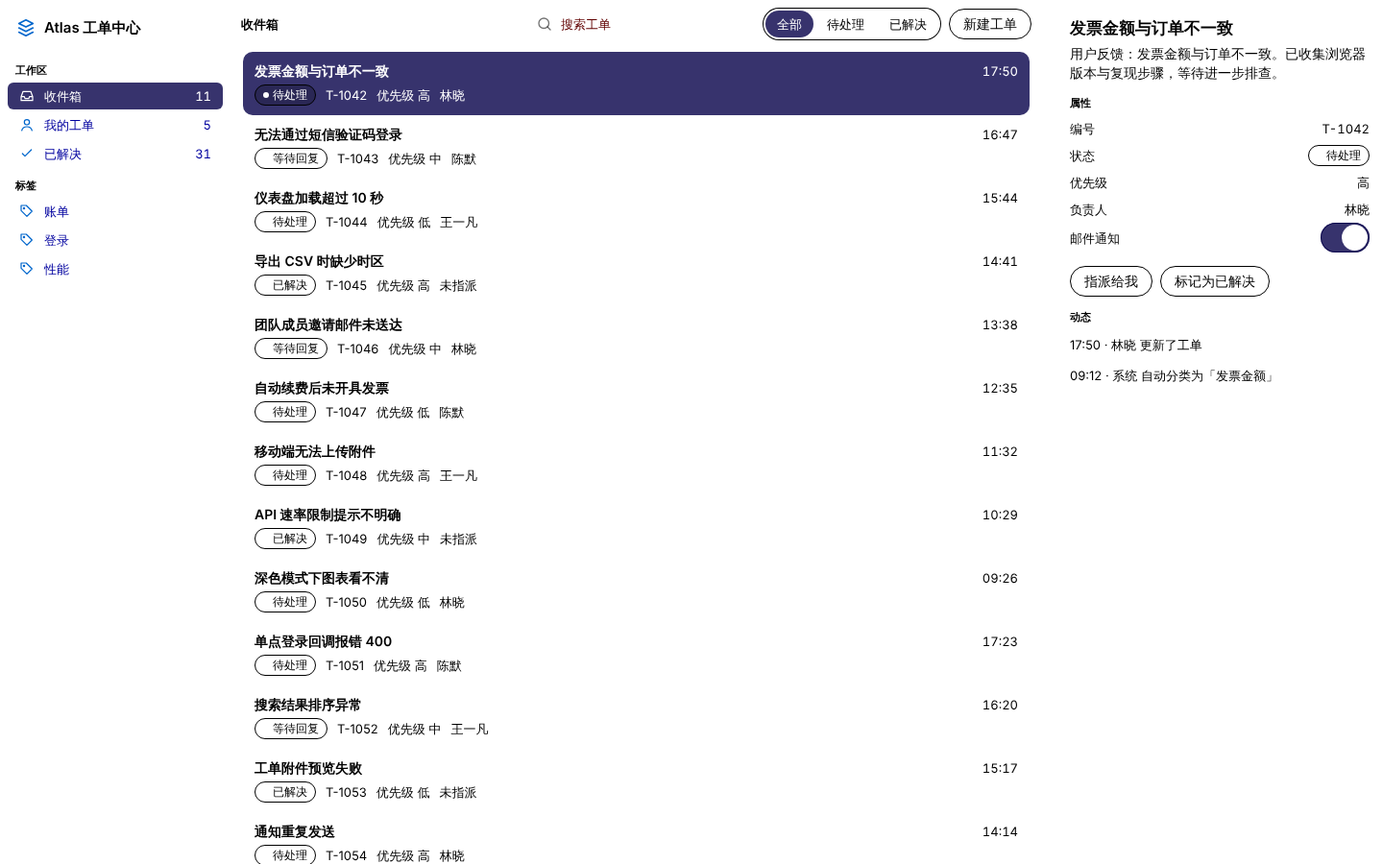
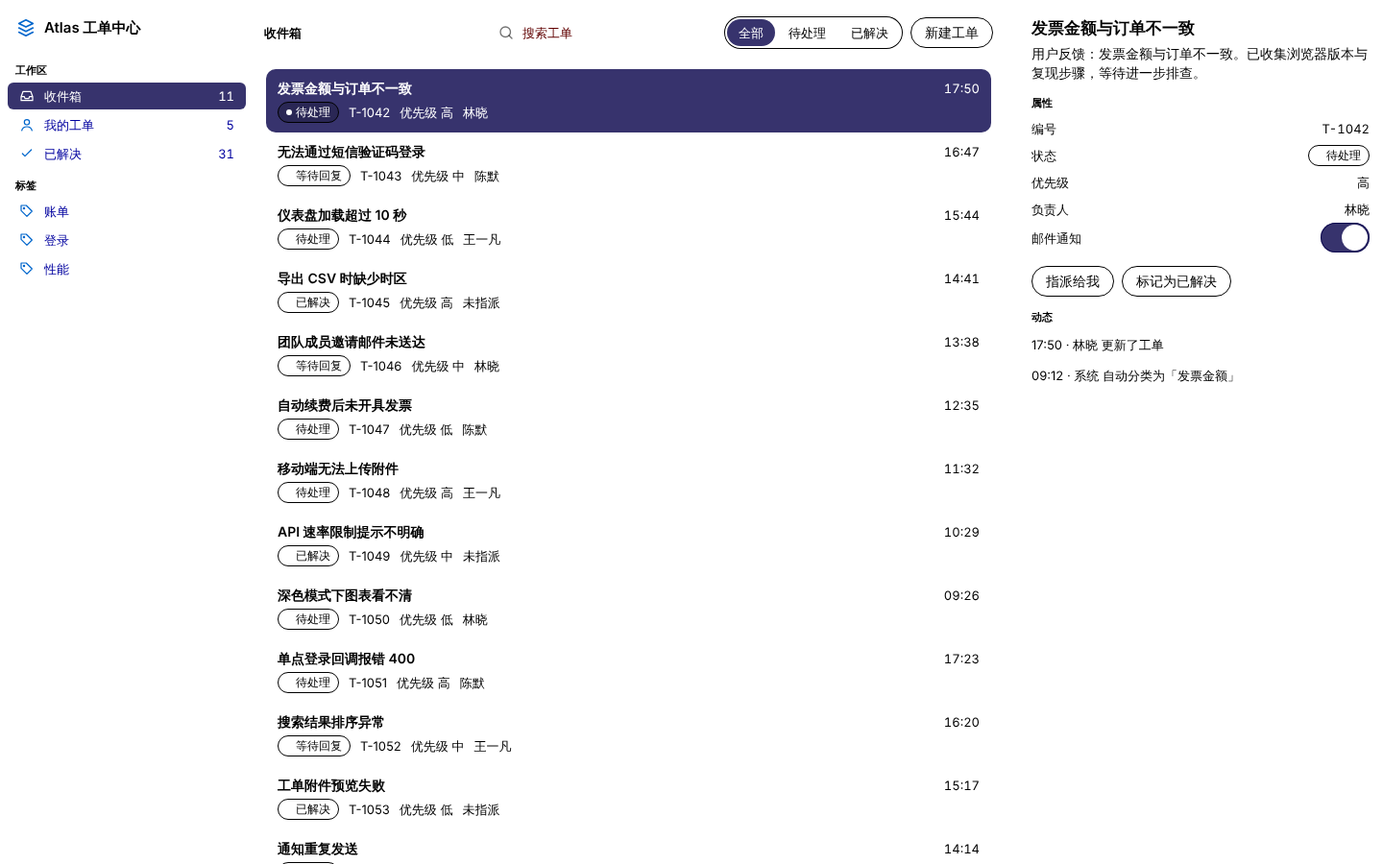
fix(web): split panes outside .as-window, AA secondary and tinted text
Fix D1–D3 from the desktop web page evaluation, each covered by tests
in tests/browser/regressions.spec.js that fail on the previous
stylesheet (the dark-appearance contrast case is a control that
already passed).

- D1: split-view tokens (pane widths, content minimum, row minimum,
  window toolbar height) are defined on :root with the 1024/1280
  tiers, so .as-split works in a plain web-app frame and the tokens can
  still be overridden on any ancestor. In .as-window the split always
  takes the 1fr row, so a window without a menu bar fills its height.
  Below 1024px every split hides its dividers, which were zero-sized
  but still focusable outside .as-window.
- D2: --as-label-secondary uses 74 % in the light appearance (5.02:1 on
  white, 4.72:1 on secondarySystemBackground); dark is unchanged.
- D3: --as-accent-on-tint gives .as-button-tinted a darker light-mode
  foreground (5.57:1 on white, 5.04:1 on secondarySystemBackground).

The evaluation page drops its 12 lines of workarounds; with the fixed
library alone axe reports no contrast violations in light, dark or
with the dialog open. Its evidence and report are updated.

Claude-Session: https://claude.ai/code/session_0163K8SVLbZWBfLNuicnwL89

diff --git a/skills/Apple-Style/web/apple-style.css b/skills/Apple-Style/web/apple-style.css
@@ -62,10 +62,18 @@
   --as-action-fg: #fff;
   --as-action-destructive: light-dark(#b42318, #b92b20);
   --as-accent: light-dark(#0066cc, #64b5ff);   /* app accent color; override per brand */
+  /* Accent text on an accent tint (.as-button-tinted): the tint lowers the
+     contrast, so light mode uses a darker shade — 5.57:1 on white, 5.04:1 on
+     secondarySystemBackground. Change it together with --as-accent. */
+  --as-accent-on-tint: light-dark(#0058b0, #64b5ff);
 
   /* Semantic (dynamic) colors — UIKit semantic values, adapt light/dark */
   --as-label:            light-dark(rgb(0 0 0),              rgb(255 255 255));
-  --as-label-secondary:  light-dark(rgb(60 60 67 / .60),     rgb(235 235 245 / .60));
+  /* Project default: Apple's light secondaryLabel (60 %) measures 3.44:1 on
+     white and 3.30:1 on secondarySystemBackground, below WCAG 1.4.3 for the
+     meaningful small text it carries. 74 % gives 5.02:1 / 4.72:1; the dark
+     value already passes (≥ 5.27:1 up to tertiarySystemBackground). */
+  --as-label-secondary:  light-dark(rgb(60 60 67 / .74),     rgb(235 235 245 / .60));
   --as-label-tertiary:   light-dark(rgb(60 60 67 / .30),     rgb(235 235 245 / .30));
   --as-label-quaternary: light-dark(rgb(60 60 67 / .18),     rgb(235 235 245 / .16));
   --as-placeholder:      var(--as-label-tertiary);
@@ -141,10 +149,9 @@
 /* Increased contrast variants of system colors (HIG Color spec) */
 @media (prefers-contrast: more) {
   :root {
-    /* Label and separator alphas tighten too, not just the hues. At their
-       default alphas secondaryLabel measures ~3.3:1 on secondarySystemBackground
-       — deliberate for de-emphasised text, but Increase Contrast is exactly
-       the switch that is supposed to take it past 4.5:1. */
+    /* Label and separator alphas tighten too, not just the hues: the default
+       secondaryLabel already passes 4.5:1; Increase Contrast takes it further,
+       and lifts tertiary and quaternary labels and separators as well. */
     --as-label-secondary:  light-dark(rgb(60 60 67 / .82), rgb(235 235 245 / .82));
     --as-label-tertiary:   light-dark(rgb(60 60 67 / .60), rgb(235 235 245 / .58));
     --as-label-quaternary: light-dark(rgb(60 60 67 / .40), rgb(235 235 245 / .38));
@@ -440,7 +447,7 @@
 .as-button:active { transform: scale(.96); opacity: .7; }           /* always a press state */
 .as-button:disabled { opacity: .35; pointer-events: none; }
 .as-button-filled { background: var(--as-action-bg); color: var(--as-action-fg); }
-.as-button-tinted { background: color-mix(in oklab, var(--as-accent) 15%, transparent); }
+.as-button-tinted { background: color-mix(in oklab, var(--as-accent) 15%, transparent); color: var(--as-accent-on-tint); }
 .as-button-gray   { background: var(--as-fill); color: var(--as-label); }
 .as-button-bordered { box-shadow: inset 0 0 0 1px var(--as-separator-opaque); color: var(--as-label); }
 .as-button-glass  { /* compose: class="as-glass as-glass-interactive as-button as-button-glass" */
@@ -744,8 +751,12 @@
    window frame. (The floating glass `.as-sidebar` above is the iPad
    expression; used inside `.as-split` it is restyled as a pane.)
    -------------------------------------------------------------------------- */
-.as-window {
-  /* Pane widths are STARTING POINTS, not Apple numbers — the HIG only says
+:root {
+  /* Split-view metrics live on :root, not .as-window: .as-split is used in
+     plain web-app frames too, and a token defined only on the window left
+     every pane at its content width and every row at zero height there.
+     Override them on .as-window, .as-split or any ancestor.
+     Pane widths are STARTING POINTS, not Apple numbers — the HIG only says
      "Set reasonable defaults for minimum and maximum pane sizes"
      (hig/split-views.md) without saying what reasonable is. These are the
      widths at which a two-level sidebar row and a key/value inspector row stop
@@ -760,18 +771,18 @@
   --as-window-chrome: 52px;
 }
 @media (min-width: 1280px) {
-  .as-window { --as-sidebar-w: 264px; --as-inspector-w: 380px; --as-content-min: 480px; }
+  :root { --as-sidebar-w: 264px; --as-inspector-w: 380px; --as-content-min: 480px; }
 }
 /* A pointer is more precise than a fingertip: WCAG 2.2 Target Size (Minimum)
    asks 24×24 CSS px, where touch wants 44×44. Gate on the INPUT, not the
    width — a touchscreen laptop at 1440px still needs finger-sized rows, and a
    Mac inspector at 44pt a row holds a third of what it should. */
-@media (any-pointer: coarse) { .as-window { --as-row-min: var(--as-hit-min); } }
+@media (any-pointer: coarse) { :root { --as-row-min: var(--as-hit-min); } }
 
 /* Narrow-container fallback preserves platform identity and all pane content.
    Panes stack; only resize handles disappear when there is no horizontal split. */
 @media (max-width: 1023.98px) {
-  .as-window > .as-split > .as-split-divider { display: none; }
+  .as-split > .as-split-divider { display: none; }
 }
 /* Used inside a split view, `.as-sidebar` is a pane, not the floating iPad
    slab it is on its own — at every width, so the compact fallback doesn't
@@ -794,6 +805,9 @@
     overflow: hidden;                    /* the panes scroll, the window doesn't */
     background: var(--as-bg-grouped);
   }
+  /* The split always takes the 1fr row, so a window without a menu bar (or
+     without a toolbar) still fills its height instead of leaving it empty. */
+  .as-window > .as-split { grid-row: 3; }
 
   /* Menu bar. On a Mac this lives outside the window and iPadOS 26 puts it at
      the top of the screen; on the web it has to be drawn in-window. Quiet

diff --git a/tests/browser/regressions.spec.js b/tests/browser/regressions.spec.js
@@ -345,3 +345,75 @@ test('a closed sheet backdrop is not rendered (§2.10)', async ({ page }) => {
   await page.locator('#dim').evaluate(el => el.classList.remove('is-open'));
   await expect.poll(() => page.locator('#dim').evaluate(el => getComputedStyle(el).visibility)).toBe('hidden');
 });
+
+// D1–D3 of evals/runs/2026-10-17-pc-web/report.md.
+test.describe('split view outside a Mac-style window (D1)', () => {
+  const panes = `<div class="as-split" id="split" style="block-size:600px">
+      <nav class="as-sidebar" aria-label="Sections"><a class="as-row is-selected" href="#a">Inbox</a><a class="as-row" href="#b">Archive</a></nav>
+      <div class="as-split-divider" aria-label="Sidebar width"></div>
+      <main class="as-content"><header class="as-toolbar as-toolbar-window"><h1 class="as-toolbar-title">Inbox</h1></header><p>Content</p></main>
+      <div class="as-split-divider" aria-label="Inspector width"></div>
+      <aside class="as-inspector" aria-label="Details"><div class="as-field"><span>Status</span><span>Open</span></div></aside></div>`;
+  const measure = page => page.evaluate(() => {
+    const box = s => document.querySelector(s).getBoundingClientRect();
+    return { sidebar: Math.round(box('.as-sidebar').width), inspector: Math.round(box('.as-inspector').width),
+      row: Math.round(box('.as-sidebar .as-row').height), field: Math.round(box('.as-inspector .as-field').height),
+      toolbar: getComputedStyle(document.querySelector('.as-toolbar-window')).minBlockSize };
+  });
+  for (const [width, sidebar, inspector] of [[1100, 220, 300], [1440, 264, 380]]) {
+    test(`panes keep their default widths and row heights at ${width}px`, async ({ page }) => {
+      await page.setViewportSize({ width, height: 800 });
+      await load(page, `<div class="app">${panes}</div>`);
+      await page.evaluate(() => LiquidGlass.init());
+      const m = await measure(page);
+      expect(m).toMatchObject({ sidebar, inspector, toolbar: '52px' });
+      expect(m.row).toBeGreaterThanOrEqual(28); expect(m.field).toBeGreaterThanOrEqual(28);
+    });
+  }
+  test('tokens can still be overridden on .as-window, and a window without a menu bar fills its height', async ({ page }) => {
+    await page.setViewportSize({ width: 1440, height: 800 });
+    await load(page, `<div class="as-window" style="--as-sidebar-w: 300px">${panes.replace(' style="block-size:600px"', '')}</div>`);
+    await page.evaluate(() => LiquidGlass.init());
+    expect((await measure(page)).sidebar).toBe(300);
+    const fill = await page.evaluate(() => [document.querySelector('.as-window').getBoundingClientRect().bottom, split.getBoundingClientRect().bottom].map(Math.round));
+    expect(fill[1]).toBe(fill[0]);
+  });
+  test('below 1024px the stacked split hides its dividers', async ({ page }) => {
+    await page.setViewportSize({ width: 800, height: 800 });
+    await load(page, `<div class="app">${panes}</div>`);
+    await page.evaluate(() => LiquidGlass.init());
+    // Not just zero-sized: the runtime gives dividers tabindex=0, so they must be display:none to leave the tab order.
+    await expect(page.locator('.as-split-divider').first()).toHaveCSS('display', 'none');
+  });
+});
+
+// Composites the computed colours (rgba, color-mix results) on a canvas, so the
+// ratio is what is drawn: container background, then the element's own
+// background, then the text colour.
+async function renderedContrast(page, selector) {
+  return page.evaluate(sel => {
+    const el = document.querySelector(sel), c = document.createElement('canvas'); c.width = c.height = 1;
+    const x = c.getContext('2d', { willReadFrequently: true });
+    const pixel = colors => { x.clearRect(0, 0, 1, 1); for (const fill of colors) { x.fillStyle = fill; x.fillRect(0, 0, 1, 1); } return [...x.getImageData(0, 0, 1, 1).data].slice(0, 3); };
+    const host = getComputedStyle(el.parentElement).backgroundColor, own = getComputedStyle(el).backgroundColor;
+    const bg = pixel([host, own]), fg = pixel([host, own, getComputedStyle(el).color]);
+    const lum = rgb => rgb.map(v => v / 255).map(v => v <= .04045 ? v / 12.92 : ((v + .055) / 1.055) ** 2.4).reduce((s, v, i) => s + v * [.2126, .7152, .0722][i], 0);
+    const [a, b] = [lum(fg), lum(bg)];
+    return (Math.max(a, b) + .05) / (Math.min(a, b) + .05);
+  }, selector);
+}
+for (const colorScheme of ['light', 'dark']) {
+  test(`secondary labels and tinted buttons meet 4.5:1 by default in ${colorScheme} (D2, D3)`, async ({ page }) => {
+    // Reduced motion: .as-button transitions its background, and a mid-transition
+    // frame from the UA button colour is not the default being measured.
+    await page.emulateMedia({ colorScheme, contrast: 'no-preference', reducedMotion: 'reduce' });
+    const backgrounds = ['--as-bg', '--as-bg-secondary', '--as-bg-grouped', '--as-bg-grouped-2', '--as-bg-tertiary'];
+    await load(page, backgrounds.map((bg, i) => `<div style="background:var(${bg});padding:8px">
+      <span class="as-secondary" id="s${i}">Secondary</span> <button class="as-button as-button-tinted" id="t${i}">Tinted</button></div>`).join(''));
+    await page.waitForFunction(() => document.getAnimations().length === 0);
+    for (let i = 0; i < backgrounds.length; i++) {
+      expect(await renderedContrast(page, `#s${i}`), `secondary label on ${backgrounds[i]}`).toBeGreaterThanOrEqual(4.5);
+      expect(await renderedContrast(page, `#t${i}`), `tinted button on ${backgrounds[i]}`).toBeGreaterThanOrEqual(4.5);
+    }
+  });
+}

diff --git a/evals/runs/2026-10-17-pc-web/index.html b/evals/runs/2026-10-17-pc-web/index.html
@@ -10,7 +10,9 @@
      application, input = pointer + keyboard, container = 1024–1920 px.
      Library: ../../../skills/Apple-Style/web/{apple-style.css, liquid-glass.mjs}.
      Page CSS below is only what the library does not provide; every block is
-     tagged [gap] or [page] so the evaluation can count it. -->
+     tagged [gap] or [page] so the evaluation can count it. The first run also
+     needed 12 lines of [defect] workarounds (D1, D2 in report.md); they were
+     removed once the library fixed them. -->
 <link rel="stylesheet" href="../../../skills/Apple-Style/web/apple-style.css">
 <style>
   /* [gap] CJK: the font stacks have no CJK face and the type scale uses Latin
@@ -19,6 +21,7 @@
     --as-font-text: -apple-system, BlinkMacSystemFont, "SF Pro Text", "PingFang SC", "Hiragino Sans GB", "Microsoft YaHei", "Noto Sans CJK SC", system-ui, sans-serif;
     --as-font-display: -apple-system, BlinkMacSystemFont, "SF Pro Display", "PingFang SC", "Hiragino Sans GB", "Microsoft YaHei", "Noto Sans CJK SC", system-ui, sans-serif;
   }
+  * { letter-spacing: 0 !important; }
 
 
   /* [page] application frame: .as-window assumes an in-window menu bar, so a
@@ -26,13 +29,6 @@
   html, body { margin: 0; block-size: 100%; }
   .app { block-size: 100dvh; display: grid; grid-template-rows: minmax(0, 1fr); background: var(--as-bg-grouped); }
   .app > .as-split { min-block-size: 0; }
-  /* [defect] .as-split's panes read --as-sidebar-w, --as-inspector-w,
-     --as-content-min and --as-row-min, but those are defined only on
-     .as-window. Outside a Mac-style window every pane collapses to its
-     content width and every row to zero minimum height. Same values here. */
-  .app { --as-sidebar-w: 220px; --as-inspector-w: 300px; --as-content-min: 380px; --as-row-min: 28px; }
-  @media (min-width: 1280px) { .app { --as-sidebar-w: 240px; --as-inspector-w: 340px; --as-content-min: 480px; } }
-  @media (any-pointer: coarse) { .app { --as-row-min: var(--as-hit-min); } }
   .brand { display: flex; align-items: center; gap: 8px; padding: 10px 8px 14px; font: 600 15px/20px var(--as-font-text); color: var(--as-label); }
   .brand svg { inline-size: 22px; block-size: 22px; color: var(--as-accent); }
   .as-sidebar .as-row .count { margin-inline-start: auto; font-variant-numeric: tabular-nums; }
@@ -48,12 +44,6 @@
   body .as-segmented .as-segment { min-block-size: 28px; padding-inline: 12px; font-size: 13px; line-height: 18px; }
   .app .as-toolbar-window .as-search { inline-size: 220px; }
 
-  /* [defect] --as-label-secondary keeps Apple's light value (≈3.5:1 on white),
-     below WCAG 1.4.3 for the meaningful small text it is used for (section
-     titles, field labels, metadata). The stylesheet only raises it under
-     Increase Contrast. AA values for the default appearance (5.63:1 on white): */
-  :root { --as-label-secondary: light-dark(rgb(60 60 67 / .78), rgb(235 235 245 / .64)); }
-  * { letter-spacing: 0 !important; }
 
   /* [gap] selectable list rows (a listbox): .as-list is the iOS inset grouped
      list and .as-list-column has no row styles. */

diff --git a/evals/runs/2026-10-17-pc-web/report.md b/evals/runs/2026-10-17-pc-web/report.md
@@ -2,6 +2,8 @@
 
 日期：2026-10-17　·　库版本：`main` @ `f921bbc`（已含审计 §2.1–2.10 的修复）　·　环境：Chromium 141 headless，Linux 容器
 
+> **更新（D1–D3 已修复）**：第 4 节的 D1–D3 已在库中修复并加了回归测试。页面里那 12 行 `[defect]` 绕过代码已删除，`evidence/` 是只依赖修复后的库重跑的结果（见第 8 节）。下文第一轮的数字保留原样并注明“第一轮”。
+
 > 结论：用这套技能能在较短时间内做出**观感可信、键盘与深浅色都过关**的桌面 Web 应用骨架（侧栏 + 列表 + 详情 + 工具栏 + 对话框）。但它还不是“拿来即用”：一个普通的工单后台页用到了库的 33 个类和 20 个语义变量，此外仍需页面自写 **68 行补能力的 CSS、12 行绕过库缺陷的 CSS**，以及列表键盘交互、对话框接线等脚本；并且这次实测又发现了 **3 个库级缺陷**（分栏变量只在 `.as-window` 上定义、次要文字色与 tinted 按钮在浅色下对比度不足）。
 
 ## 1. 方法
@@ -16,9 +18,9 @@
 
 | 检查 | 适用范围 | 状态 | 结果 | 证据 / 限制 |
 |---|---|---|---|---|
-| 布局：1024 / 1280 / 1440 / 1920 | 桌面 Web 应用 | 已检查 | 通过 | 无横向溢出、无控制台错误；内容列 502 / 698 / 858 / 1338px；`evidence/layout.json` |
+| 布局：1024 / 1280 / 1440 / 1920 | 桌面 Web 应用 | 已检查 | 通过 | 无横向溢出、无控制台错误；内容列 502 / 634 / 794 / 1274px（库默认栏宽 220/300 → 264/380）；`evidence/layout.json` |
 | 200% 缩放（720px） | WCAG 1.4.10 重排 | 已检查 | 通过（有保留） | 无溢出；三栏上下堆叠，侧栏占首屏约 400px；`layout-720.png` |
-| axe（浅色） | WCAG 2.2 AA + 最佳实践 | 已检查 | **1 处 serious**、2 处 moderate | 第一轮 **68 处**对比度失败，绝大多数来自库的 `--as-label-secondary`；页面覆盖该变量后剩 `.as-button-tinted` 1 处；`region` 2 处来自库的分栏拖拽条；`evidence/axe.json` |
+| axe（浅色） | WCAG 2.2 AA + 最佳实践 | 已检查 | 通过（`region` 2 处，moderate） | 第一轮 **68 处**对比度失败，绝大多数来自库的 `--as-label-secondary`（D2），页面覆盖该变量后剩 `.as-button-tinted` 1 处（D3）；库修复后不加任何覆盖为 **0 处**。`region` 2 处来自库的分栏拖拽条（D4）；`evidence/axe.json` |
 | axe（深色 / 对话框） | 同上 | 已检查 | 通过（`region` 2 处） | 对话框 0 违规；玻璃背景上的 6–15 个文字节点工具无法计算，标为 incomplete，需人工判断 |
 | 键盘：Tab 顺序与单一停靠点 | 全页 | 已检查 | 通过 | 列表、分段各占一个 Tab 停靠点；分栏拖拽条可聚焦；`evidence/keyboard.json` |
 | 键盘：列表、筛选、对话框 | 核心流程 | 已检查 | 通过 | 方向键选中并同步详情；方向键切换筛选；打开对话框时焦点在标题；Tab 不会落到背景内容；空提交出现 `aria-invalid` 与错误文字并聚焦；Esc 关闭后焦点回到“新建工单”；创建后 Toast 通过 `role="status"` 播报 |
@@ -62,14 +64,14 @@
 | Toast | 3 行 CSS + 约 4 行 JS | z-index 表里有 toast 层级，但没有组件 |
 | 自定义组件的强制颜色适配 | 4 行 CSS | 库只处理自己的控件 |
 
-合计：页面 CSS **89 行声明**（`[gap]` 68、`[defect]` 12、`[page]` 9），页面 JS 78 行（其中约 22 行补的是库缺的交互）。页面用到了库的 33 个类和 20 个语义变量。
+合计（第一轮）：页面 CSS **89 行声明**（`[gap]` 68、`[defect]` 12、`[page]` 9），页面 JS 78 行（其中约 22 行补的是库缺的交互）。页面用到了库的 33 个类和 20 个语义变量。D1–D3 修复后，`[defect]` 的 12 行已删除，现为 77 行。
 
 ## 6. 与 2026-10-16 审计相比
 
 | 维度 | 审计时 | 现在 | 变化原因 |
 |---|---|---|---|
-| Web 运行时正确性 | 中 | **中上** | §2.1–2.9 已修复并有回归测试；本次新发现 D1 |
-| 无障碍 | 中 | **中** | 强制颜色、RTL、快捷键已修复；本次新发现 D2、D3 两处对比度问题 |
+| Web 运行时正确性 | 中 | **中上** | §2.1–2.9 已修复并有回归测试；本次发现的 D1 也已修复 |
+| 无障碍 | 中 | **中上** | 强制颜色、RTL、快捷键已修复；本次发现的 D2、D3 两处对比度问题也已修复 |
 | 性能可伸缩性 | 中偏弱 | **中上** | 采样节流、贴图缓存、DOM 变化扫描都有了调用次数预算 |
 | 工程集成 | 弱 | **中** | ESM、SSR 安全导入、级联层写法已具备；仍无 npm 包和类型声明 |
 | 组件覆盖 | 弱 | **弱** | 未变，见第 5 节 |
@@ -80,14 +82,28 @@
 **做“真实 PC 端网页”的能力判断**
 
 - **做内部工具或后台原型**：可以。照着技能能较快得到一个观感统一、键盘可用、深浅色都正确的界面，主要工作量集中在第 5 节那些缺口上。
-- **做面向用户的正式产品**：需要先修 D1–D3，并补上桌面 Web 密度档和表单/选择/列表/对话框这类组件，再在 Safari、Firefox 和读屏软件上实测。
+- **做面向用户的正式产品**：D1–D3 已修复；还需要补上桌面 Web 密度档和表单/选择/列表/对话框这类组件，再在 Safari、Firefox 和读屏软件上实测。
 - **做营销 / 内容网站**：这次没有测。组件以 App 结构为主，审计第 4 节指出的“内容网站模式缺失”依然成立。
 
 ## 7. 建议的下一步（按投入产出排序）
 
-1. 修 D1–D3，样式测试补上次要文字和 tinted 按钮的对比度检查（小改动）。
+1. ~~修 D1–D3，样式测试补上次要文字和 tinted 按钮的对比度检查。~~ 已完成（第 8 节）。
 2. 增加桌面 Web 密度档（例如 `data-density="desktop"`：14px 正文、32px 控件），覆盖按钮、分段、搜索和开关。
 3. 用原生能力补组件：基于可定制 `<select>` 的 pop-up/pull-down、表单字段（含错误态）、listbox/表格行、`<dialog>` 模态（含不透明材质）、Toast、空状态与骨架屏。
 4. Playwright 增加 WebKit 和 Firefox 项目。
 5. 把本页面作为 `evals/` 的固定任务，做技能启用/关闭对比。
 6. 按审计第 3 节把速查表与技能正文更新到 iOS 27 / macOS 27。
+
+## 8. D1–D3 修复后复测
+
+| 缺陷 | 库中的修复 | 回归测试（`tests/browser/regressions.spec.js`） |
+|---|---|---|
+| D1 | 分栏变量定义到 `:root`，并保留 1024 / 1280 两档；可在 `.as-window`、`.as-split` 或任意祖先上覆盖。`.as-window` 中分栏固定占 `1fr` 行，没有菜单栏也能撑满高度。窄于 1024px 时所有分栏都隐藏拖拽条，不再只限于 `.as-window` | `.as-window` 外的栏宽 220/300 与 264/380、行高 ≥ 28px、工具栏最小高度 52px；在 `.as-window` 上覆盖变量仍然生效；没有菜单栏的窗口撑满高度；窄屏时拖拽条为 `display: none`（之前高度为 0 但仍可聚焦） |
+| D2 | `--as-label-secondary` 浅色改为 74%：白底 5.02:1、浅灰底 4.72:1；深色保持 Apple 原值（≥ 5.27:1） | 浅色、深色下，5 种背景上次要文字 ≥ 4.5:1（在画布上按实际计算色合成后测量） |
+| D3 | 新变量 `--as-accent-on-tint: light-dark(#0058b0, #64b5ff)` 作为 `.as-button-tinted` 的文字色：白底 5.57:1、浅灰底 5.04:1 | 同上，覆盖 tinted 按钮 |
+
+在修复前的样式表上运行，新增的 6 项测试中 5 项失败；唯一通过的是深色下的对比度（深色原本就达标，作为对照组）。
+
+**评估页复测**：删除全部 `[defect]` 覆盖，只依赖修复后的库重跑 `check.spec.js`：4 项全部通过。axe 浅色对比度违规为 0（第一轮 68 处），深色为 0，对话框打开时为 0；剩余的只有 D4 `region`（最佳实践级）。各栏回到库的默认宽度，没有横向溢出。
+
+**另外注意到（不在本轮范围）**：`.as-button-destructive` 与菜单里的 `.as-destructive` 用系统红 `rgb(255 56 60)` 作为文字色，白底约 3.6:1，同样低于 4.5:1。本页面没有用到，所以 axe 没报。建议参照 D3 增加深一档的红色文字变量。

diff --git a/skills/Apple-Style/cheatsheets/color.md b/skills/Apple-Style/cheatsheets/color.md
@@ -23,7 +23,7 @@ Source: HIG *Color* (`Apple-Style-HIG/reference/hig/color.md`), *Dark Mode*, WWD
 visionOS uses the dark values. Grays (iOS/iPadOS): gray 142 142 147 / 142 142 147 · gray2 174 174 178 / 99 99 102 · gray3 199 199 204 / 72 72 74 · gray4 209 209 214 / 58 58 60 · gray5 229 229 234 / 44 44 46 · gray6 242 242 247 / 28 28 30.
 
 ## Semantic (dynamic) colors — use these, never hard-code appearance
-label / secondaryLabel (60%) / tertiaryLabel (30%) / quaternaryLabel (18%) · placeholderText · separator (translucent) / opaqueSeparator · link · systemBackground / secondary / tertiary · systemGroupedBackground / secondary / tertiary · systemFill / secondary / tertiary / quaternary. Web tokens: `--as-label`, `--as-bg`, `--as-bg-grouped-2`, `--as-fill`, … in `web/apple-style.css`.
+label / secondaryLabel (60%; the Web token uses 74 % in light for 4.5:1, see below) / tertiaryLabel (30%) / quaternaryLabel (18%) · placeholderText · separator (translucent) / opaqueSeparator · link · systemBackground / secondary / tertiary · systemGroupedBackground / secondary / tertiary · systemFill / secondary / tertiary / quaternary. Web tokens: `--as-label`, `--as-bg`, `--as-bg-grouped-2`, `--as-fill`, … in `web/apple-style.css`.
 
 Never redefine a semantic color's meaning (separator as text color, secondaryLabel as background).
 
@@ -41,4 +41,8 @@ Never redefine a semantic color's meaning (separator as text color, secondaryLab
 
 ## Accessible Web action colors (project defaults)
 
-`--as-blue` preserves the Apple system samples. White on those samples measures about 3.52:1 light / 3.23:1 dark and is insufficient for ordinary text. The runtime stylesheet uses `--as-action-bg: light-dark(#0066cc, #006bd6)` and `--as-action-fg: #fff` for filled buttons, prominent glass and selected rows. These opaque action surfaces meet 4.5:1 without Increase Contrast. `--as-action-destructive` provides a separate white-text destructive fill. `--as-accent` is for foreground accents, not white-text filled surfaces. Custom `--as-tint`, opacity, inherited foregrounds and backgrounds still require measurement. See `tests/browser/styles.spec.js` for the measured default pairs.
+`--as-blue` preserves the Apple system samples. White on those samples measures about 3.52:1 light / 3.23:1 dark and is insufficient for ordinary text. The runtime stylesheet uses `--as-action-bg: light-dark(#0066cc, #006bd6)` and `--as-action-fg: #fff` for filled buttons, prominent glass and selected rows. These opaque action surfaces meet 4.5:1 without Increase Contrast. `--as-action-destructive` provides a separate white-text destructive fill. `--as-accent` is for foreground accents, not white-text filled surfaces. Accent text on an accent tint (`.as-button-tinted`) uses `--as-accent-on-tint: light-dark(#0058b0, #64b5ff)`, 5.57:1 on white and 5.04:1 on secondarySystemBackground; change it together with `--as-accent`.
+
+`--as-label-secondary` departs from Apple's light secondaryLabel (60 %, 3.44:1 on white, 3.30:1 on secondarySystemBackground) and uses 74 % (5.02:1 / 4.72:1), because on the web it carries meaningful small text — section titles, field labels, metadata. The dark value is Apple's (≥ 5.27:1 up to tertiarySystemBackground). Tertiary and quaternary labels remain de-emphasis colours for placeholders and disabled content; do not use them for information people need to read.
+
+Custom `--as-tint`, opacity, inherited foregrounds and backgrounds still require measurement. See `tests/browser/styles.spec.js` and `tests/browser/regressions.spec.js` for the measured default pairs.

diff --git a/skills/Apple-Style/cheatsheets/web-implementation.md b/skills/Apple-Style/cheatsheets/web-implementation.md
@@ -92,6 +92,13 @@ The example uses leading navigation and trailing detail. For a content website, 
 Working page: `web/demo-desktop.html`. Below 1024px the same markup degrades to
 stacked panes. The Mac platform attribute remains; test narrow-window content order and overflow before using that fallback in a product.
 
+`.as-split` does not need `.as-window`: a web app can put the split in its own
+full-height frame (`block-size: 100dvh`) without a menu bar or Mac density. The
+pane tokens (`--as-sidebar-w`, `--as-inspector-w`, `--as-content-min`,
+`--as-row-min`, `--as-window-chrome`) are defined on `:root` with the 1024 /
+1280 tiers below; override them on `.as-window`, `.as-split` or any ancestor.
+`.as-window` itself works with or without the menu bar and toolbar rows.
+
 - **Toolbar is part of the window frame**, not a bar the content scrolls under:
   "the toolbar resides in the frame at the top of a window … window titles can
   display inline with controls, and toolbar items don't include a bezel"
@@ -179,7 +186,7 @@ numbers, not a tweak:
 | `.as-menu-item` | 44px | **28px** |
 | Large title | 34/41 | 26/32 |
 
-Inside `.as-window`, sidebar rows and inspector fields use `--as-row-min`
+Inside `.as-split`, sidebar rows and inspector fields use `--as-row-min`
 (28px), and `@media (any-pointer: coarse)` raises it back to 44px — see the hit
 region note below. macOS keeps **capsules for Large/XL controls and standout
 actions only**; mini/small/medium stay rounded rectangles, which is what the

diff --git a/CHANGELOG.md b/CHANGELOG.md
@@ -20,6 +20,12 @@
 - 参考库全量刷新：208 个来源全部重新抓取（新增 Apple In-App Purchase，下线改名前的 In-App Purchase，设计入门页迁到 `/design/get-started/`，28 页内容更新）。
 - 关闭的 sheet 遮罩不再渲染（`visibility: hidden`），避免浏览器按视口边缘固定元素着色工具栏时取到隐藏遮罩。
 
+[PC 端网页评估](evals/runs/2026-10-17-pc-web/report.md) 发现的 D1–D3：
+
+- 分栏变量（栏宽、内容最小宽度、行高、窗口工具栏高度）定义到 `:root`，`.as-split` 可以在 `.as-window` 之外使用，也仍可在任意祖先上覆盖；`.as-window` 没有菜单栏时分栏也能撑满高度；窄屏时所有分栏都隐藏拖拽条。
+- `--as-label-secondary` 浅色值从 60% 提到 74%，默认满足 4.5:1（白底 5.02:1、浅灰底 4.72:1）；深色不变。
+- 新增 `--as-accent-on-tint`，`.as-button-tinted` 的文字在浅色下改用深一档的蓝色（白底 5.57:1、浅灰底 5.04:1）。
+
 ## v0.1.0 — 2026-10-04
 
 Reliability hardening.
